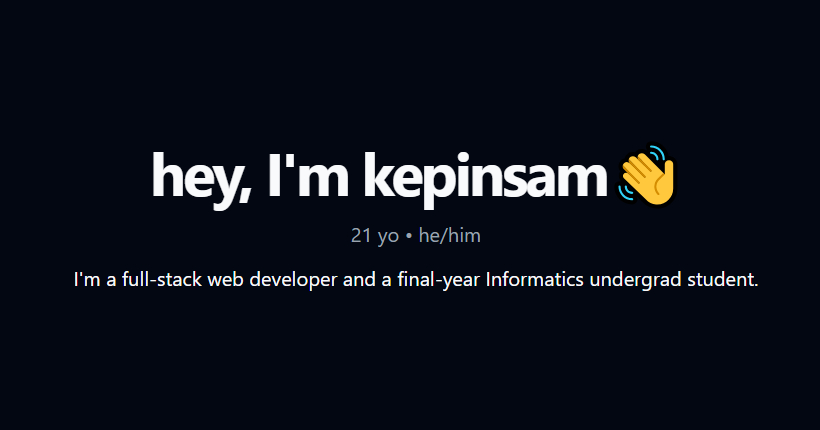
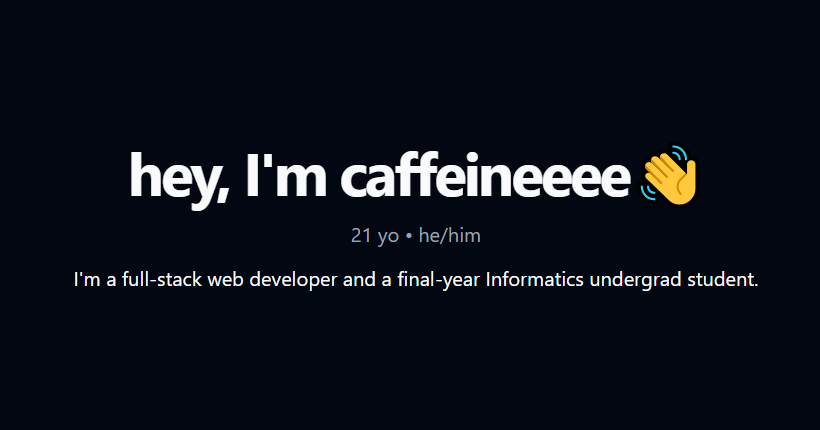
Rename kepinsam.tech to caffeineeee.me

Changed region(s): [[0.1524, 0.3326, 0.8537, 0.514]]

diff --git a/src/config/site.ts b/src/config/site.ts
@@ -1,9 +1,9 @@
 export type SiteConfig = typeof siteConfig;
 
 const links = {
-  twitter: "https://twitter.com/kepinsamm",
-  github: "https://github.com/kepinsam/kepinsam.tech",
-  githubAccount: "https://github.com/kepinsam",
+  twitter: "https://twitter.com/caffeeeeine",
+  github: "https://github.com/caffeineeee/caffeineeee.me",
+  githubAccount: "https://github.com/caffeineeee",
   linkedin: "https://www.linkedin.com/in/cevinsamuel",
   email: "mailto:cevin.samuel@yahoo.com"
 };
@@ -12,7 +12,7 @@ export const siteConfig = {
   name: "Cevin Samuel",
   description:
     "Personal site of Cevin Samuel.",
-  url: "https://kepinsam.tech",
-  ogImage: "https://kepinsam.tech/opengraph-image.png",
+  url: "https://caffeineeee.me",
+  ogImage: "https://caffeineeee.me/opengraph-image.png",
   links,
 };

diff --git a/src/app/layout.tsx b/src/app/layout.tsx
@@ -30,11 +30,11 @@ export const metadata: Metadata = {
   ],
   authors: [
     {
-      name: "kepinsam",
-      url: "https://github.com/kepinsam",
+      name: "caffeineeee",
+      url: "https://github.com/caffeineeee",
     },
   ],
-  creator: "kepinsam",
+  creator: "caffeineeee",
   themeColor: [
     { media: "(prefers-color-scheme: light)", color: "white" },
     { media: "(prefers-color-scheme: dark)", color: "black" },
@@ -52,7 +52,7 @@ export const metadata: Metadata = {
     title: siteConfig.name,
     description: siteConfig.description,
     images: [`${ siteConfig.url }/og.jpg`],
-    creator: "@kepinsamm",
+    creator: "@caffeeeeine",
   },
   icons: {
     icon: "/favicon.ico",

diff --git a/mdx-components.tsx b/mdx-components.tsx
@@ -1,0 +1,15 @@
+import type { MDXComponents } from 'mdx/types';
+
+// This file allows you to provide custom React components
+// to be used in MDX files. You can import and use any
+// React component you want, including components from
+// other libraries.
+
+// This file is required to use MDX in `app` directory.
+export function useMDXComponents(components: MDXComponents): MDXComponents {
+    return {
+        // Allows customizing built-in components, e.g. to add styling.
+        // h1: ({ children }) => <h1 style={{ fontSize: "100px" }}>{children}</h1>,
+        ...components,
+    };
+}

diff --git a/src/app/page.tsx b/src/app/page.tsx
@@ -12,7 +12,7 @@ export default function IndexPage() {
         className="mx-auto flex w-full max-w-[64rem] flex-col items-center justify-center gap-4 pb-8 pt-6 text-center md:pb-12 md:pt-10 lg:py-28"
       >
         <h1 className="text-3xl font-bold leading-tight tracking-tighter md:text-5xl lg:text-6xl lg:leading-[1.1]">
-          hey, I&apos;m kepinsam👋
+          hey, I&apos;m caffeineeee👋
         </h1>
         <Balancer className="max-w-[46rem] text-lg text-muted-foreground sm:text-xl">
           {new Date().getFullYear() - 2002} yo • he/him

diff --git a/src/app/blog/page.tsx b/src/app/blog/page.tsx
@@ -3,6 +3,8 @@
 import { Shell } from "@/components/shells/shell";
 import { usePathname } from "next/navigation";
 
+import HelloWorld from '../hello.mdx';
+
 export default function BlogPage() {
 
     const currentTab = usePathname();
@@ -17,6 +19,7 @@ export default function BlogPage() {
                     {currentTab}
                 </h1>
             </section>
+            <HelloWorld />
         </Shell>
     );
 }

diff --git a/next.config.js b/next.config.js
@@ -1,4 +1,9 @@
 /** @type {import('next').NextConfig} */
-const nextConfig = {}
+const nextConfig = {
+    experimental: {
+        mdxRs: true,
+    },
+};
 
-module.exports = nextConfig
+const withMDX = require('@next/mdx')();
+module.exports = withMDX(nextConfig);

diff --git a/src/components/analytics.tsx b/src/components/analytics.tsx
@@ -4,7 +4,7 @@ export function Analytics() {
   return (
     <Loglib
       config={{
-        id: "kepinsam.tech",
+        id: "caffeineeee.me",
       }}
     />
   );

diff --git a/README.md b/README.md
@@ -1,10 +1,10 @@
 <div align="center">
-<a target="_blank" href="https://kepinsam.tech">
+<a target="_blank" href="https://caffeineeee.me">
     <img alt='Personal Site' src="./src/app/opengraph-image.png" />
 </a>
 </div>
 
-# kepinsam.tech
+# caffeineeee.me
 💠Personal Site
 
 ## Getting Started
@@ -12,10 +12,10 @@
 First, run the development server:
 
 ```bash
-git clone https://github.com/kepinsam/kepinsam.tech.git
+git clone https://github.com/caffeineeee/caffeineeee.me.git
 ```
 ```bash
-cd kepinsam.tech
+cd caffeineeee.me
 ```
 ```bash
 pnpm i
